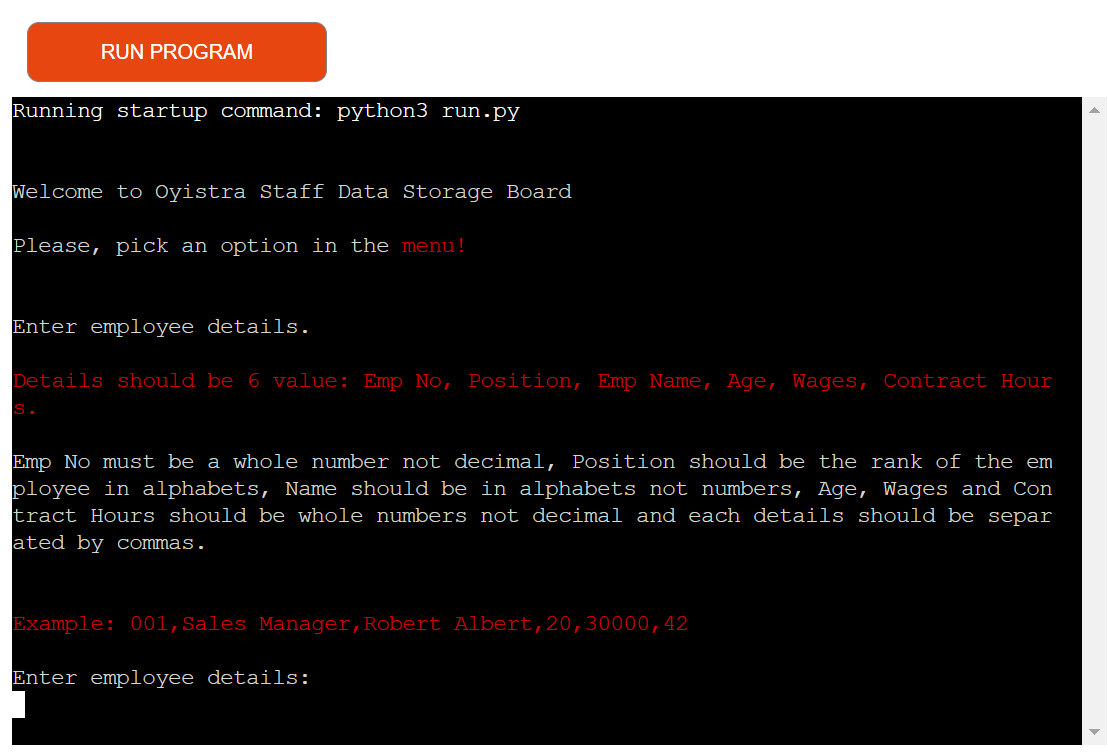
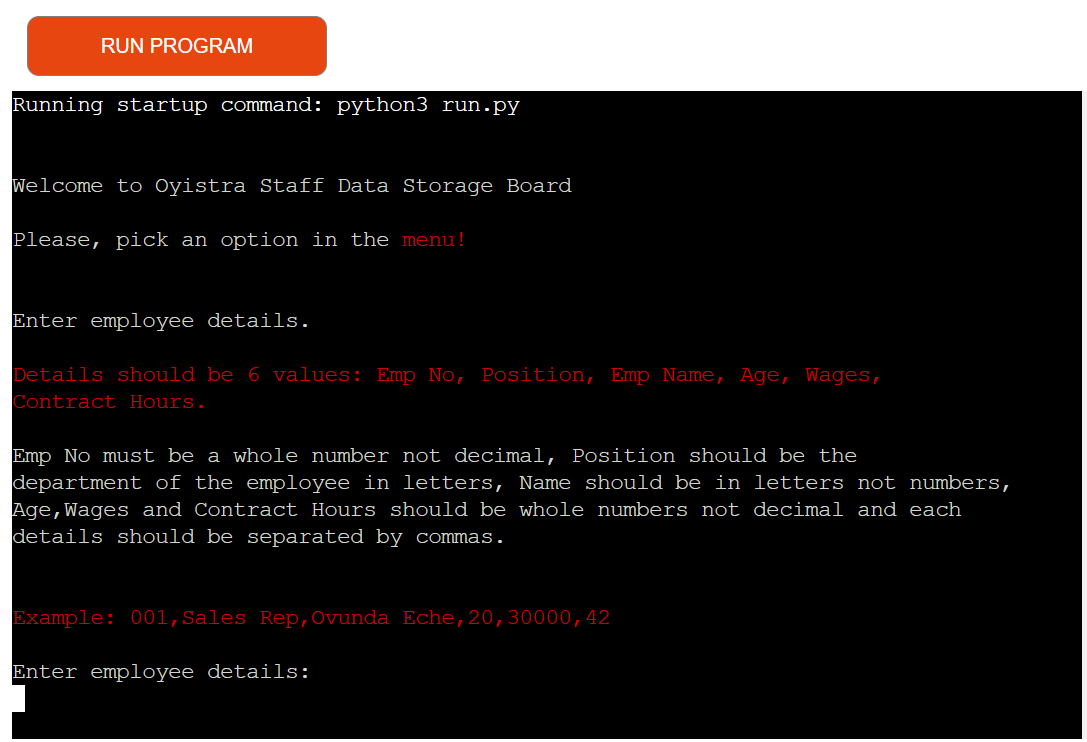
Add changes made to screenshots of error messages

diff --git a/run.py b/run.py
@@ -65,27 +65,27 @@ expected Employee No in whole number""")
 {Fore.RED}Invalid data type entered for employee position, You enetered
 {(details[1])}. Expected employee position in letters""")
 
-        if is_alpha_or_space(details[1]) != "Sales Manager":
+        if details[1] != "Sales Manager":
             raise ValueError(f"""
 {Fore.RED}You enetered {(details[1])} as employee position. Employee position
 should either be chief executive office, human resources officer,
 sales manager, financial officer or sales representative""")
-        elif is_alpha_or_space(details[1]) != "Chief Executive Officer":
+        elif details[1] != "Chief Executive Officer":
             raise ValueError(f"""
 {Fore.RED}You enetered {(details[1])} as employee position. Employee
 position should either be chief executive office, human resources officer,
 sales manager, financial officer or sales representative""")
-        elif is_alpha_or_space(details[1]) != "Human Resources Officer":
+        elif details[1] != "Human Resources Officer":
             raise ValueError(f"""
 {Fore.RED}You enetered {(details[1])} as employee position. Employee position
 should either be chief executive office, human resources officer,
 sales manager, financial officer or sales representative""")
-        elif is_alpha_or_space(details[1]) != "Financial Officer":
+        elif details[1] != "Financial Officer":
             raise ValueError(f"""
 {Fore.RED}You enetered {(details[1])} as employee position. Employee position
 should either be chief executive office, human resources officer,
 sales manager, financial officer or sales representative""")
-        elif is_alpha_or_space(details[1]) != "Sales Representative":
+        elif details[1] != "Sales Representative":
             raise ValueError(f"""
 {Fore.RED}You enetered {(details[1])} as employee position. Employee position
 should either be chief executive office, human resources officer,

diff --git a/README.md b/README.md
@@ -52,29 +52,34 @@ When the user enters details that is not equal to six, the user will see an erro
 
 ![error-message](documentation/error-message-1.png)
 
-When the user enter words in place of numbers for Emp No, the user will see an error message and a provision to re-enter employee details.
+When the user enter letters in place of whole numbers for Employee No, the user will see an error message and a provision to re-enter employee details.
 
 ![error-message](documentation/error-message-2.png)
 
-When a user enters numbers in place of words for Position, the user will see an error message and a provision to re-enter employee details.
+When a user enters numbers in place of letters for Position, the user will see an error message and a provision to re-enter employee details.
 
 ![error-message](documentation/error-message-3.png)
 
-When a user enters numbers in place of words for Name, the user will see an error message and a provision to re-enter employee details.
+When a user enters a position not included in the company's positions, the user will see an error message and a provision to re-enter employee details.
 
 ![error-message](documentation/error-message-4.png)
 
+
+When a user enters numbers in place of words for Name, the user will see an error message and a provision to re-enter employee details.
+
+![error-message]()
+
 When the user enter words in place of numbers for Age, the user will see an error message and a provision to re-enter employee details.
 
-![error-message](documentation/error-message-5.png)
+![error-message]()
 
 When the user enter words in place of numbers for Wages, the user will see an error message and a provision to re-enter employee details.
 
-![error-message](documentation/error-message-6.png)
+![error-message]()
 
 When the user enter words in place of numbers for Contract Hours, the user will see an error message and a provision to re-enter employee details.
 
-![error-message](documentation/error-message-7.png)
+![error-message]()
 
 - **When the user enters valid details**
 
